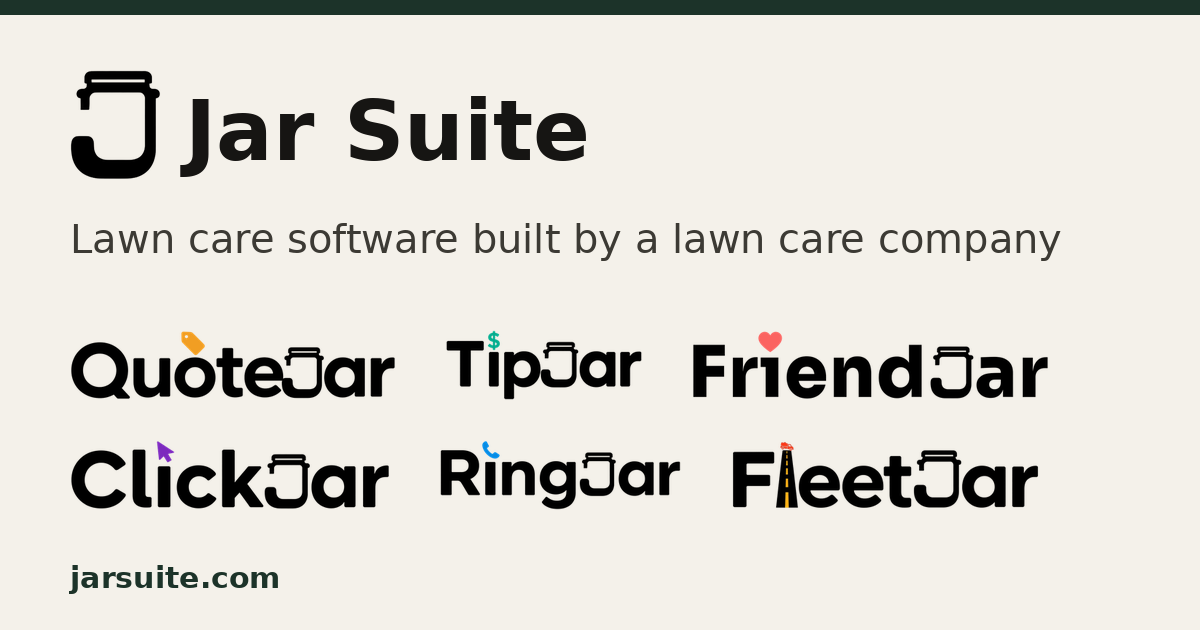
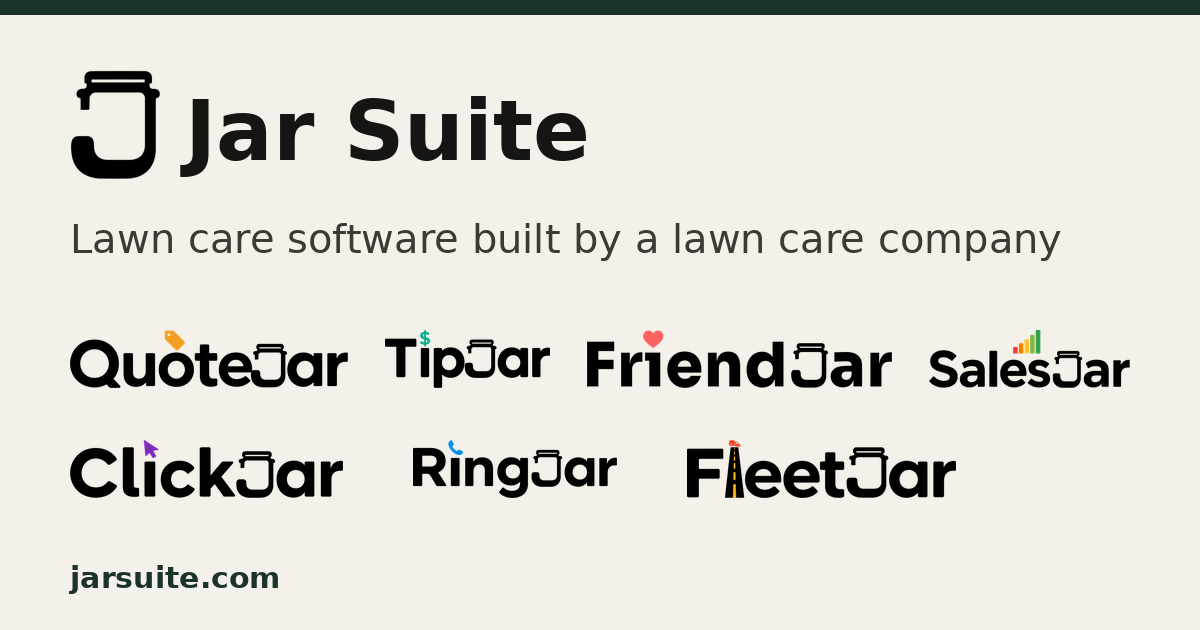
Share image: add SalesJar (og-image-v2)

Changed region(s): [[0.0617, 0.5127, 0.9558, 0.6333], [0.0617, 0.6937, 0.8633, 0.8143]]

diff --git a/salesjar/index.html b/salesjar/index.html
@@ -11,14 +11,14 @@
   <meta property="og:title" content="SalesJar — Daily Sales Dashboard for Lawn Care | Jar Suite">
   <meta property="og:description" content="A daily sales dashboard for lawn care: daily sales, month to date, year over year, cancels and production, pulled from the office software every day. $399 a month.">
   <meta property="og:url" content="https://jarsuite.com/salesjar/">
-  <meta property="og:image" content="https://jarsuite.com/assets/og-image.png">
+  <meta property="og:image" content="https://jarsuite.com/assets/og-image-v2.png">
   <meta property="og:image:width" content="1200">
   <meta property="og:image:height" content="630">
   <meta property="og:image:alt" content="Jar Suite: QuoteJar, TipJar, FriendJar, ClickJar, RingJar, FleetJar and SalesJar">
   <meta name="twitter:card" content="summary_large_image">
   <meta name="twitter:title" content="SalesJar — Daily Sales Dashboard for Lawn Care | Jar Suite">
   <meta name="twitter:description" content="A daily sales dashboard for lawn care: daily sales, month to date, year over year, cancels and production, pulled from the office software every day. $399 a month.">
-  <meta name="twitter:image" content="https://jarsuite.com/assets/og-image.png">
+  <meta name="twitter:image" content="https://jarsuite.com/assets/og-image-v2.png">
   <meta name="theme-color" content="#1c3329">
   <link rel="icon" href="/assets/logos/favicon-32.png" type="image/png">
   <link rel="apple-touch-icon" href="/assets/logos/apple-touch-icon.png">

diff --git a/index.html b/index.html
@@ -11,14 +11,14 @@
   <meta property="og:title" content="Jar Suite — Lawn Care Software for Quotes, Reviews &amp; Fleet">
   <meta property="og:description" content="Software built by a lawn care company: instant lawn quotes, a daily sales dashboard, review requests, referrals, ad reporting, call tracking and truck records.">
   <meta property="og:url" content="https://jarsuite.com/">
-  <meta property="og:image" content="https://jarsuite.com/assets/og-image.png">
+  <meta property="og:image" content="https://jarsuite.com/assets/og-image-v2.png">
   <meta property="og:image:width" content="1200">
   <meta property="og:image:height" content="630">
   <meta property="og:image:alt" content="Jar Suite: QuoteJar, TipJar, FriendJar, ClickJar, RingJar, FleetJar and SalesJar">
   <meta name="twitter:card" content="summary_large_image">
   <meta name="twitter:title" content="Jar Suite — Lawn Care Software for Quotes, Reviews &amp; Fleet">
   <meta name="twitter:description" content="Software built by a lawn care company: instant lawn quotes, a daily sales dashboard, review requests, referrals, ad reporting, call tracking and truck records.">
-  <meta name="twitter:image" content="https://jarsuite.com/assets/og-image.png">
+  <meta name="twitter:image" content="https://jarsuite.com/assets/og-image-v2.png">
   <meta name="theme-color" content="#1c3329">
   <link rel="icon" href="/assets/logos/favicon-32.png" type="image/png">
   <link rel="apple-touch-icon" href="/assets/logos/apple-touch-icon.png">

diff --git a/quotejar/index.html b/quotejar/index.html
@@ -11,14 +11,14 @@
   <meta property="og:title" content="QuoteJar — Lawn Care Instant Quote Software | Jar Suite">
   <meta property="og:description" content="Instant lawn quotes on your website. A homeowner enters an address, the lawn is measured as part of the quote, and your office gets the lead. $300 a month.">
   <meta property="og:url" content="https://jarsuite.com/quotejar/">
-  <meta property="og:image" content="https://jarsuite.com/assets/og-image.png">
+  <meta property="og:image" content="https://jarsuite.com/assets/og-image-v2.png">
   <meta property="og:image:width" content="1200">
   <meta property="og:image:height" content="630">
   <meta property="og:image:alt" content="Jar Suite: QuoteJar, TipJar, FriendJar, ClickJar, RingJar, FleetJar and SalesJar">
   <meta name="twitter:card" content="summary_large_image">
   <meta name="twitter:title" content="QuoteJar — Lawn Care Instant Quote Software | Jar Suite">
   <meta name="twitter:description" content="Instant lawn quotes on your website. A homeowner enters an address, the lawn is measured as part of the quote, and your office gets the lead. $300 a month.">
-  <meta name="twitter:image" content="https://jarsuite.com/assets/og-image.png">
+  <meta name="twitter:image" content="https://jarsuite.com/assets/og-image-v2.png">
   <meta name="theme-color" content="#1c3329">
   <link rel="icon" href="/assets/logos/favicon-32.png" type="image/png">
   <link rel="apple-touch-icon" href="/assets/logos/apple-touch-icon.png">

diff --git a/ringjar/index.html b/ringjar/index.html
@@ -11,14 +11,14 @@
   <meta property="og:title" content="RingJar — Call Tracking for Lawn Care Companies | Jar Suite">
   <meta property="og:description" content="Call tracking for lawn care companies: a tracking number per ad source, forwarded to your office, with answered and missed calls logged. $49 a month.">
   <meta property="og:url" content="https://jarsuite.com/ringjar/">
-  <meta property="og:image" content="https://jarsuite.com/assets/og-image.png">
+  <meta property="og:image" content="https://jarsuite.com/assets/og-image-v2.png">
   <meta property="og:image:width" content="1200">
   <meta property="og:image:height" content="630">
   <meta property="og:image:alt" content="Jar Suite: QuoteJar, TipJar, FriendJar, ClickJar, RingJar, FleetJar and SalesJar">
   <meta name="twitter:card" content="summary_large_image">
   <meta name="twitter:title" content="RingJar — Call Tracking for Lawn Care Companies | Jar Suite">
   <meta name="twitter:description" content="Call tracking for lawn care companies: a tracking number per ad source, forwarded to your office, with answered and missed calls logged. $49 a month.">
-  <meta name="twitter:image" content="https://jarsuite.com/assets/og-image.png">
+  <meta name="twitter:image" content="https://jarsuite.com/assets/og-image-v2.png">
   <meta name="theme-color" content="#1c3329">
   <link rel="icon" href="/assets/logos/favicon-32.png" type="image/png">
   <link rel="apple-touch-icon" href="/assets/logos/apple-touch-icon.png">

diff --git a/pricing/index.html b/pricing/index.html
@@ -11,14 +11,14 @@
   <meta property="og:title" content="Pricing — Lawn Care &amp; Home Service Software | Jar Suite">
   <meta property="og:description" content="Jar Suite prices: QuoteJar $300/mo, SalesJar $399/mo, TipJar $449/mo, FriendJar $49, ClickJar $99, RingJar $49, FleetJar $9/truck or $149 unlimited.">
   <meta property="og:url" content="https://jarsuite.com/pricing/">
-  <meta property="og:image" content="https://jarsuite.com/assets/og-image.png">
+  <meta property="og:image" content="https://jarsuite.com/assets/og-image-v2.png">
   <meta property="og:image:width" content="1200">
   <meta property="og:image:height" content="630">
   <meta property="og:image:alt" content="Jar Suite: QuoteJar, TipJar, FriendJar, ClickJar, RingJar, FleetJar and SalesJar">
   <meta name="twitter:card" content="summary_large_image">
   <meta name="twitter:title" content="Pricing — Lawn Care &amp; Home Service Software | Jar Suite">
   <meta name="twitter:description" content="Jar Suite prices: QuoteJar $300/mo, SalesJar $399/mo, TipJar $449/mo, FriendJar $49, ClickJar $99, RingJar $49, FleetJar $9/truck or $149 unlimited.">
-  <meta name="twitter:image" content="https://jarsuite.com/assets/og-image.png">
+  <meta name="twitter:image" content="https://jarsuite.com/assets/og-image-v2.png">
   <meta name="theme-color" content="#1c3329">
   <link rel="icon" href="/assets/logos/favicon-32.png" type="image/png">
   <link rel="apple-touch-icon" href="/assets/logos/apple-touch-icon.png">

diff --git a/fleetjar/index.html b/fleetjar/index.html
@@ -11,14 +11,14 @@
   <meta property="og:title" content="FleetJar — Fleet Management for Lawn Care Trucks | Jar Suite">
   <meta property="og:description" content="Truck records, QR codes, checklists, repairs, tires, parts and plate expirations. $9 per truck a month, or $149 unlimited. Not GPS tracking.">
   <meta property="og:url" content="https://jarsuite.com/fleetjar/">
-  <meta property="og:image" content="https://jarsuite.com/assets/og-image.png">
+  <meta property="og:image" content="https://jarsuite.com/assets/og-image-v2.png">
   <meta property="og:image:width" content="1200">
   <meta property="og:image:height" content="630">
   <meta property="og:image:alt" content="Jar Suite: QuoteJar, TipJar, FriendJar, ClickJar, RingJar, FleetJar and SalesJar">
   <meta name="twitter:card" content="summary_large_image">
   <meta name="twitter:title" content="FleetJar — Fleet Management for Lawn Care Trucks | Jar Suite">
   <meta name="twitter:description" content="Truck records, QR codes, checklists, repairs, tires, parts and plate expirations. $9 per truck a month, or $149 unlimited. Not GPS tracking.">
-  <meta name="twitter:image" content="https://jarsuite.com/assets/og-image.png">
+  <meta name="twitter:image" content="https://jarsuite.com/assets/og-image-v2.png">
   <meta name="theme-color" content="#1c3329">
   <link rel="icon" href="/assets/logos/favicon-32.png" type="image/png">
   <link rel="apple-touch-icon" href="/assets/logos/apple-touch-icon.png">

diff --git a/contact/index.html b/contact/index.html
@@ -11,14 +11,14 @@
   <meta property="og:title" content="Request Access — Jar Suite Lawn Care Software">
   <meta property="og:description" content="Request access to Jar Suite. Tell us your company and which Jars you want: QuoteJar, SalesJar, TipJar, FriendJar, ClickJar, RingJar or FleetJar.">
   <meta property="og:url" content="https://jarsuite.com/contact/">
-  <meta property="og:image" content="https://jarsuite.com/assets/og-image.png">
+  <meta property="og:image" content="https://jarsuite.com/assets/og-image-v2.png">
   <meta property="og:image:width" content="1200">
   <meta property="og:image:height" content="630">
   <meta property="og:image:alt" content="Jar Suite: QuoteJar, TipJar, FriendJar, ClickJar, RingJar, FleetJar and SalesJar">
   <meta name="twitter:card" content="summary_large_image">
   <meta name="twitter:title" content="Request Access — Jar Suite Lawn Care Software">
   <meta name="twitter:description" content="Request access to Jar Suite. Tell us your company and which Jars you want: QuoteJar, SalesJar, TipJar, FriendJar, ClickJar, RingJar or FleetJar.">
-  <meta name="twitter:image" content="https://jarsuite.com/assets/og-image.png">
+  <meta name="twitter:image" content="https://jarsuite.com/assets/og-image-v2.png">
   <meta name="theme-color" content="#1c3329">
   <link rel="icon" href="/assets/logos/favicon-32.png" type="image/png">
   <link rel="apple-touch-icon" href="/assets/logos/apple-touch-icon.png">

diff --git a/clickjar/index.html b/clickjar/index.html
@@ -11,14 +11,14 @@
   <meta property="og:title" content="ClickJar — Ad Reporting Dashboard for Lawn Care | Jar Suite">
   <meta property="og:description" content="See ad spend and leads for lawn care companies in one dashboard, plus keyword research and SEO tracking. $99 a month.">
   <meta property="og:url" content="https://jarsuite.com/clickjar/">
-  <meta property="og:image" content="https://jarsuite.com/assets/og-image.png">
+  <meta property="og:image" content="https://jarsuite.com/assets/og-image-v2.png">
   <meta property="og:image:width" content="1200">
   <meta property="og:image:height" content="630">
   <meta property="og:image:alt" content="Jar Suite: QuoteJar, TipJar, FriendJar, ClickJar, RingJar, FleetJar and SalesJar">
   <meta name="twitter:card" content="summary_large_image">
   <meta name="twitter:title" content="ClickJar — Ad Reporting Dashboard for Lawn Care | Jar Suite">
   <meta name="twitter:description" content="See ad spend and leads for lawn care companies in one dashboard, plus keyword research and SEO tracking. $99 a month.">
-  <meta name="twitter:image" content="https://jarsuite.com/assets/og-image.png">
+  <meta name="twitter:image" content="https://jarsuite.com/assets/og-image-v2.png">
   <meta name="theme-color" content="#1c3329">
   <link rel="icon" href="/assets/logos/favicon-32.png" type="image/png">
   <link rel="apple-touch-icon" href="/assets/logos/apple-touch-icon.png">

diff --git a/tipjar/index.html b/tipjar/index.html
@@ -11,14 +11,14 @@
   <meta property="og:title" content="TipJar — Review Request Software for Lawn Care | Jar Suite">
   <meta property="og:description" content="After each visit, TipJar asks for a Google or Facebook review and collects a survey. $449 a month.">
   <meta property="og:url" content="https://jarsuite.com/tipjar/">
-  <meta property="og:image" content="https://jarsuite.com/assets/og-image.png">
+  <meta property="og:image" content="https://jarsuite.com/assets/og-image-v2.png">
   <meta property="og:image:width" content="1200">
   <meta property="og:image:height" content="630">
   <meta property="og:image:alt" content="Jar Suite: QuoteJar, TipJar, FriendJar, ClickJar, RingJar, FleetJar and SalesJar">
   <meta name="twitter:card" content="summary_large_image">
   <meta name="twitter:title" content="TipJar — Review Request Software for Lawn Care | Jar Suite">
   <meta name="twitter:description" content="After each visit, TipJar asks for a Google or Facebook review and collects a survey. $449 a month.">
-  <meta name="twitter:image" content="https://jarsuite.com/assets/og-image.png">
+  <meta name="twitter:image" content="https://jarsuite.com/assets/og-image-v2.png">
   <meta name="theme-color" content="#1c3329">
   <link rel="icon" href="/assets/logos/favicon-32.png" type="image/png">
   <link rel="apple-touch-icon" href="/assets/logos/apple-touch-icon.png">

diff --git a/thanks/index.html b/thanks/index.html
@@ -12,14 +12,14 @@
   <meta property="og:title" content="Thanks — Jar Suite">
   <meta property="og:description" content="Thanks for your request. We will get back to you soon.">
   <meta property="og:url" content="https://jarsuite.com/thanks/">
-  <meta property="og:image" content="https://jarsuite.com/assets/og-image.png">
+  <meta property="og:image" content="https://jarsuite.com/assets/og-image-v2.png">
   <meta property="og:image:width" content="1200">
   <meta property="og:image:height" content="630">
   <meta property="og:image:alt" content="Jar Suite: QuoteJar, TipJar, FriendJar, ClickJar, RingJar, FleetJar and SalesJar">
   <meta name="twitter:card" content="summary_large_image">
   <meta name="twitter:title" content="Thanks — Jar Suite">
   <meta name="twitter:description" content="Thanks for your request. We will get back to you soon.">
-  <meta name="twitter:image" content="https://jarsuite.com/assets/og-image.png">
+  <meta name="twitter:image" content="https://jarsuite.com/assets/og-image-v2.png">
   <meta name="theme-color" content="#1c3329">
   <link rel="icon" href="/assets/logos/favicon-32.png" type="image/png">
   <link rel="apple-touch-icon" href="/assets/logos/apple-touch-icon.png">

diff --git a/404.html b/404.html
@@ -12,14 +12,14 @@
   <meta property="og:title" content="Page not found — Jar Suite">
   <meta property="og:description" content="That page is not on jarsuite.com.">
   <meta property="og:url" content="https://jarsuite.com/404.html">
-  <meta property="og:image" content="https://jarsuite.com/assets/og-image.png">
+  <meta property="og:image" content="https://jarsuite.com/assets/og-image-v2.png">
   <meta property="og:image:width" content="1200">
   <meta property="og:image:height" content="630">
   <meta property="og:image:alt" content="Jar Suite: QuoteJar, TipJar, FriendJar, ClickJar, RingJar, FleetJar and SalesJar">
   <meta name="twitter:card" content="summary_large_image">
   <meta name="twitter:title" content="Page not found — Jar Suite">
   <meta name="twitter:description" content="That page is not on jarsuite.com.">
-  <meta name="twitter:image" content="https://jarsuite.com/assets/og-image.png">
+  <meta name="twitter:image" content="https://jarsuite.com/assets/og-image-v2.png">
   <meta name="theme-color" content="#1c3329">
   <link rel="icon" href="/assets/logos/favicon-32.png" type="image/png">
   <link rel="apple-touch-icon" href="/assets/logos/apple-touch-icon.png">
